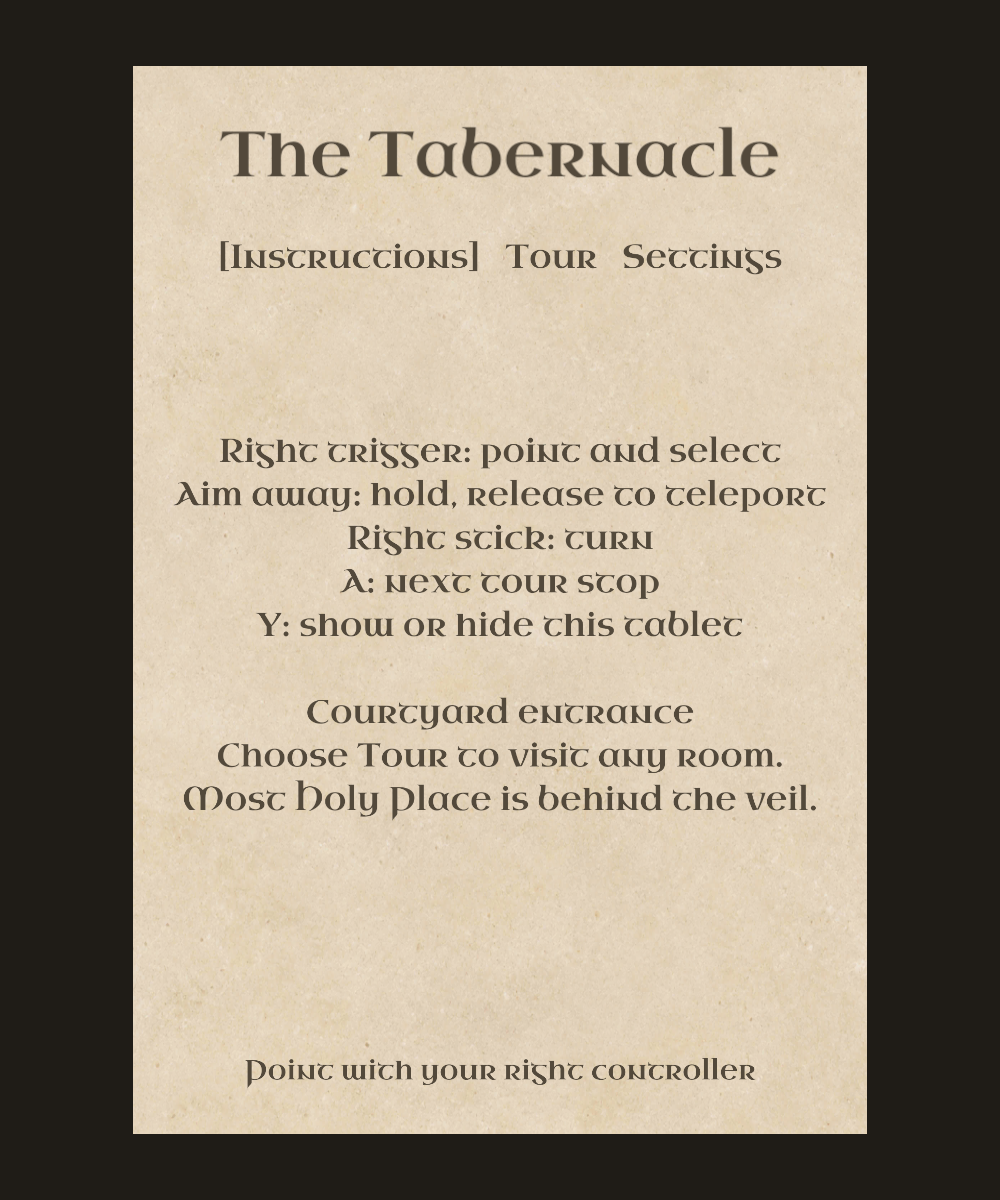
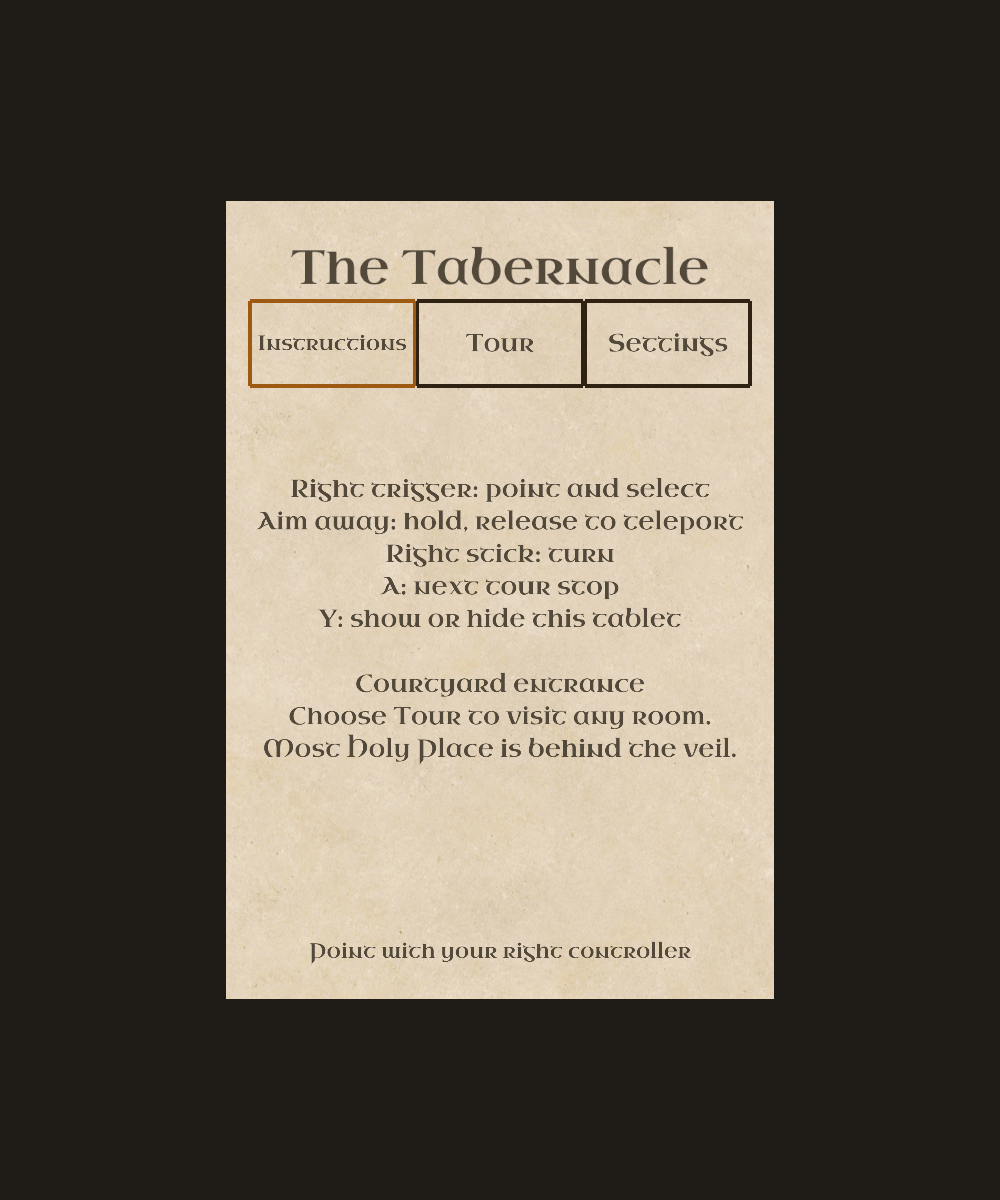
Make wrist tablet smaller and separate navigation tabs

diff --git a/Assets/ControllerTablet.cs b/Assets/ControllerTablet.cs
@@ -4,20 +4,33 @@ using UnityEngine;
 public sealed class ControllerTablet : MonoBehaviour {
  public Action<int> VisitStation;
  public Action<bool> SetRaisedView;
- Transform board;TextMesh title,body,tabs,footer;Font uncial;
+ Transform board;TextMesh title,body,footer;Font uncial;
+ readonly TextMesh[] tabs=new TextMesh[3];readonly Renderer[][] borders=new Renderer[3][];
  int page,station;bool held,raised,pendingEntry;bool fitPending;
- Material stone,letterMaterial;
+ Material stone,letterMaterial,borderMaterial,selectedMaterial;
  public static readonly string[] TourButtons={"Courtyard entrance","Bronze altar","Washing basin","Holy Place","Inner veil","Most Holy Place"};
  public void Initialize(Transform hand){
-  transform.SetParent(hand,false);transform.localPosition=new Vector3(0,.18f,.12f);transform.localRotation=Quaternion.Euler(58,0,0);
+  transform.SetParent(hand,false);transform.localPosition=new Vector3(0,.14f,.12f);transform.localScale=Vector3.one*.75f;transform.localRotation=Quaternion.Euler(58,0,0);
   board=transform;uncial=Resources.Load<Font>("Fonts/UncialAntiqua")??Resources.GetBuiltinResource<Font>("LegacyRuntime.ttf");
   stone=new Material(Resources.Load<Shader>("TabernacleSurface")){color=new Color(1,1,1),mainTexture=Resources.Load<Texture2D>("Art/TabletStone")};
   var slab=GameObject.CreatePrimitive(PrimitiveType.Cube);slab.name="Stone instruction tablet";slab.transform.SetParent(board,false);slab.transform.localScale=new Vector3(.44f,.64f,.025f);slab.GetComponent<Renderer>().sharedMaterial=stone;slab.layer=10;
   title=Label("Tablet title",new Vector3(0,.266f,-.014f),.006f);
-  tabs=Label("Tablet tabs",new Vector3(0,.205f,-.015f),.0031f);
+  borderMaterial=new Material(Resources.Load<Shader>("TabernacleSurface")){color=new Color(.20f,.14f,.08f)};
+  selectedMaterial=new Material(Resources.Load<Shader>("TabernacleSurface")){color=new Color(.65f,.37f,.08f)};
+  string[] names={"Instructions","Tour","Settings"};
+  for(int i=0;i<3;i++){
+   float x=(i-1)*.134f;
+   tabs[i]=Label(names[i]+" tab",new Vector3(x,.205f,-.018f),.0031f);tabs[i].text=names[i];
+   borders[i]=new Renderer[]{Border(x,.239f,.132f,.003f),Border(x,.171f,.132f,.003f),Border(x-.066f,.205f,.003f,.068f),Border(x+.066f,.205f,.003f,.068f)};
+  }
   body=Label("Tablet content",new Vector3(0,-.015f,-.015f),.0035f);
   footer=Label("Tablet footer",new Vector3(0,-.281f,-.015f),.0026f);
   Refresh();
+ }
+ Renderer Border(float x,float y,float width,float height){
+  var g=GameObject.CreatePrimitive(PrimitiveType.Cube);g.name="Tab border";g.transform.SetParent(board,false);g.transform.localPosition=new Vector3(x,y,-.016f);g.transform.localScale=new Vector3(width,height,.002f);
+  var collider=g.GetComponent<Collider>();if(Application.isPlaying)Destroy(collider);else DestroyImmediate(collider);
+  var renderer=g.GetComponent<Renderer>();renderer.sharedMaterial=borderMaterial;return renderer;
  }
  TextMesh Label(string name,Vector3 p,float size){
   var g=new GameObject(name);g.transform.SetParent(board,false);g.transform.localPosition=p;
@@ -25,7 +38,7 @@ public sealed class ControllerTablet : MonoBehaviour {
   if(!letterMaterial)letterMaterial=new Material(uncial.material);
   g.GetComponent<Renderer>().sharedMaterial=letterMaterial;return t;
  }
- void LateUpdate(){if(fitPending){Fit(title,.39f,.07f);Fit(tabs,.40f,.04f);Fit(body,.39f,.40f);Fit(footer,.39f,.04f);fitPending=false;}}
+ void LateUpdate(){if(fitPending){Fit(title,.39f,.07f);foreach(var tab in tabs)Fit(tab,.119f,.038f);Fit(body,.39f,.40f);Fit(footer,.39f,.04f);fitPending=false;}}
  void Fit(TextMesh text,float width,float height){
   text.transform.localScale=Vector3.one;
   var b=text.GetComponent<Renderer>().localBounds.size;
@@ -53,11 +66,11 @@ public sealed class ControllerTablet : MonoBehaviour {
  public void Toggle(){gameObject.SetActive(!gameObject.activeSelf);held=true;}
  void Refresh(){
   if(!title)return;title.text="The Tabernacle";
-  tabs.text=(page==0?"[Instructions]":"Instructions")+"   "+(page==1?"[Tour]":"Tour")+"   "+(page==2?"[Settings]":"Settings");
+  for(int i=0;i<3;i++)foreach(var border in borders[i])border.sharedMaterial=i==page?selectedMaterial:borderMaterial;
   if(page==0)body.text="Right trigger: point and select\nAim away: hold, release to teleport\nRight stick: turn\nA: next tour stop\nY: show or hide this tablet\n\n"+TourButtons[station]+"\n"+(station==5?"Educational access beyond the veil.\nHistorical access was restricted.\nLeviticus 16":"Choose Tour to visit any room.\nMost Holy Place is behind the veil.");
   else if(page==1){body.text=pendingEntry?"Beyond the veil\n\nHistorically, access was restricted.\nLeviticus 16\n\nEnter educational view\n\nPoint here and press trigger":string.Join("\n\n",TourButtons);}
   else body.text="Music: "+((TabernacleMusic.Instance?.Muted??false)?"Off":"On")+"\n\nVolume  -      "+Mathf.RoundToInt((TabernacleMusic.Instance?.Volume??.16f)*100)+"%      +\n\n"+(raised?"Back down":"Help me see higher")+"\n\nRaise your left hand to read.\nLook up to continue exploring.";
   footer.text="Point with your right controller";fitPending=true;
  }
- void OnDestroy(){if(stone)Destroy(stone);if(letterMaterial)Destroy(letterMaterial);}
+ void OnDestroy(){if(stone)Destroy(stone);if(letterMaterial)Destroy(letterMaterial);if(borderMaterial)Destroy(borderMaterial);if(selectedMaterial)Destroy(selectedMaterial);}
 }

diff --git a/Assets/Editor/QuestBuild.cs b/Assets/Editor/QuestBuild.cs
@@ -19,8 +19,8 @@ public static class QuestBuild {
  [MenuItem("Tabernacle/Configure and build Quest")]
  public static void Build(){
   Directory.CreateDirectory("Assets/XR");Directory.CreateDirectory("Builds");
-  PlayerSettings.companyName="Tabernacle Study";PlayerSettings.productName="Tabernacle Walkthrough";PlayerSettings.bundleVersion="0.3.0";
-  PlayerSettings.SetApplicationIdentifier(NamedBuildTarget.Android,"org.tabernacle.walkthrough");PlayerSettings.Android.bundleVersionCode=3;
+  PlayerSettings.companyName="Tabernacle Study";PlayerSettings.productName="Tabernacle Walkthrough";PlayerSettings.bundleVersion="0.3.1";
+  PlayerSettings.SetApplicationIdentifier(NamedBuildTarget.Android,"org.tabernacle.walkthrough");PlayerSettings.Android.bundleVersionCode=4;
   PlayerSettings.SetScriptingBackend(NamedBuildTarget.Android,ScriptingImplementation.IL2CPP);PlayerSettings.Android.targetArchitectures=AndroidArchitecture.ARM64;
   PlayerSettings.Android.minSdkVersion=AndroidSdkVersions.AndroidApiLevel29;PlayerSettings.Android.targetSdkVersion=AndroidSdkVersions.AndroidApiLevelAuto;
   PlayerSettings.SetUseDefaultGraphicsAPIs(BuildTarget.Android,false);PlayerSettings.SetGraphicsAPIs(BuildTarget.Android,new[]{GraphicsDeviceType.OpenGLES3});
